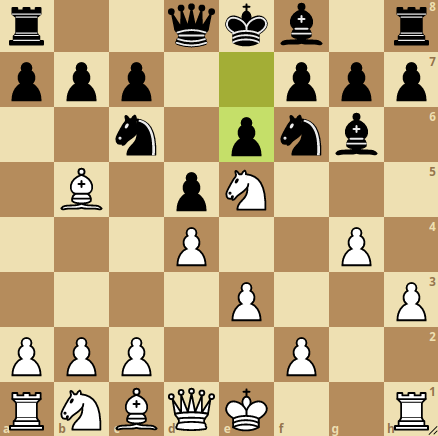
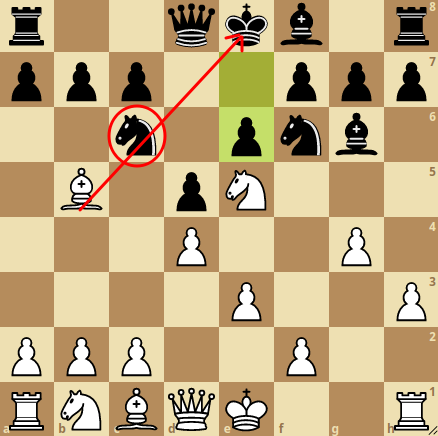
.

diff --git a/README.md b/README.md
@@ -70,3 +70,11 @@
 O que pode resultar em um ataque perigoso, como abaixo.
 
 <img src = './img/branca_08.png'>
+
+8. Outra tática excelente de brancas, é quando seu oponente decide fazer a defesa indiana do rei... você terá muitas vantagens em fazer o roque maior! ( LEMBRE-SE DE SEMPRE COLOCAR O SEU BISPO PRETO ALINHADO COM A SUA RAINHA PRETA, POIS QUANDO SEU OPONENTE USA A DEFESA INDIANA DE PRETRA, SEU FOCO É DESTRUIR AQUELE BISPO PRETO!)
+
+<img src = './img/branca_09.png'>
+
+
+
+
